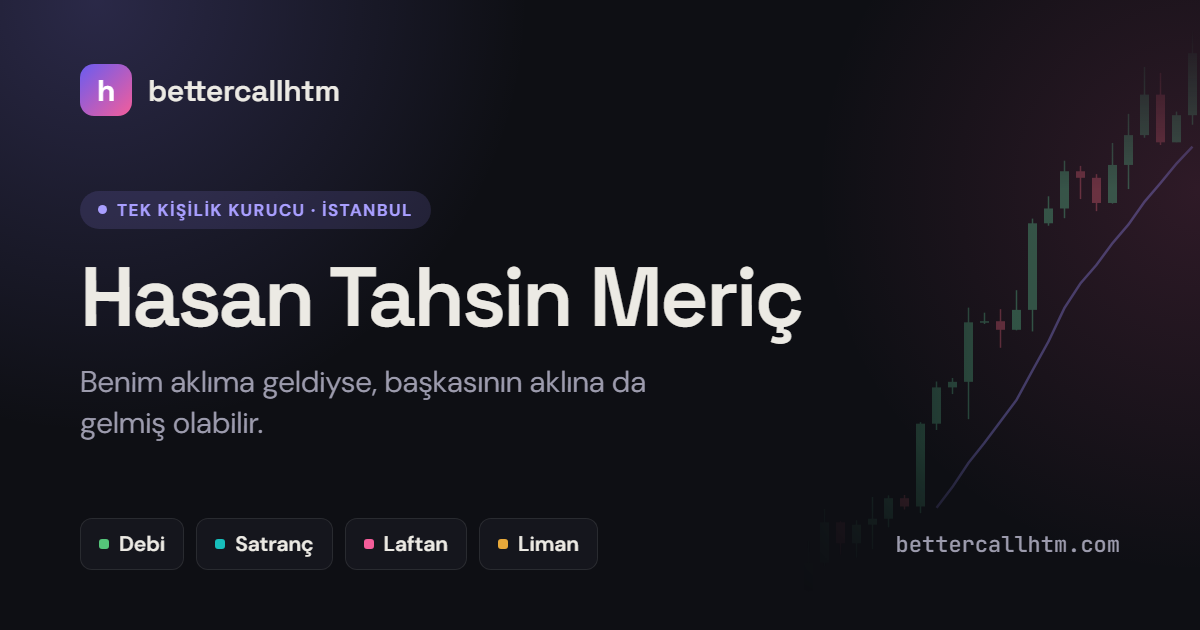
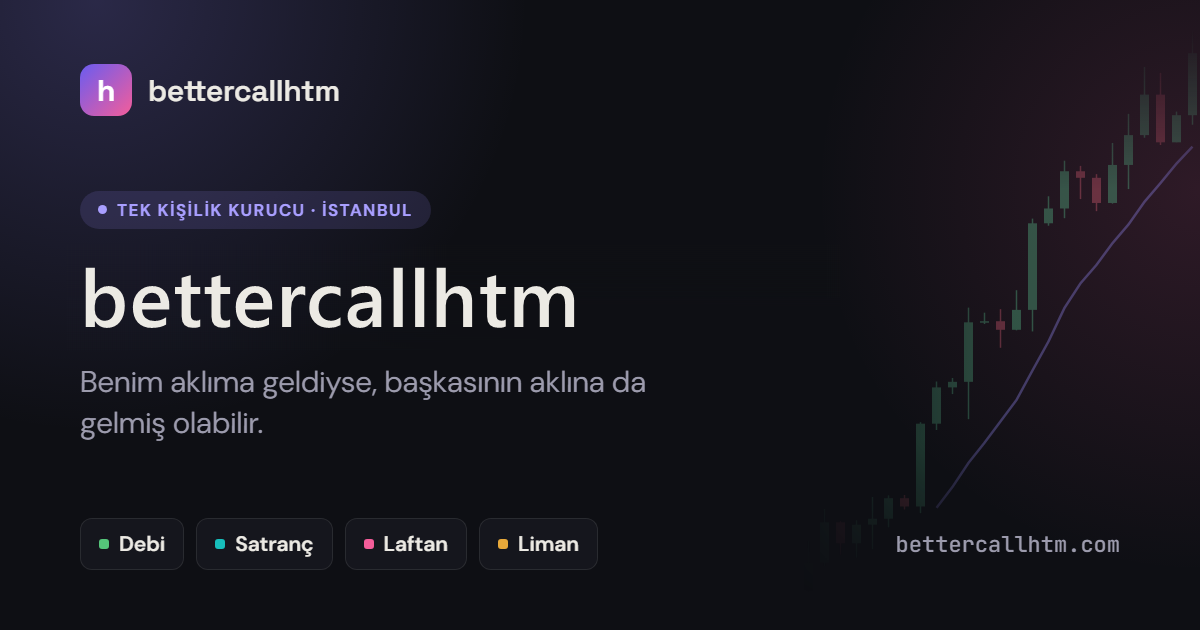
İsim siteden kaldırıldı; yalnızca bettercallhtm kimliği
Gerçek isim tüm sayfalardan, meta etiketlerinden, terminalden ve paylaşım
görselinden çıkarıldı. İsim içeren Instagram ve LinkedIn bağlantıları kaldırıldı.

Changed region(s): [[0.0617, 0.4222, 0.6783, 0.5429]]

diff --git a/hakkimda/index.html b/hakkimda/index.html
@@ -4,7 +4,7 @@
 <meta charset="utf-8">
 <meta name="viewport" content="width=device-width, initial-scale=1">
 <title>Hakkımda — bettercallhtm</title>
-<meta name="description" content="Hasan Tahsin Meriç: İTÜ Elektronik ve Haberleşme son sınıf, tek kişilik kurucu. Finans, sayılar teorisi ve satranç.">
+<meta name="description" content="İTÜ Elektronik ve Haberleşme son sınıf, tek kişilik kurucu. Finans, sayılar teorisi ve satranç.">
 <link rel="canonical" href="https://bettercallhtm.com/hakkimda">
 <meta property="og:type" content="website">
 <meta property="og:site_name" content="bettercallhtm">
@@ -15,7 +15,7 @@
 <meta property="og:image" content="https://bettercallhtm.com/assets/img/og.png">
 <meta property="og:image:width" content="1200">
 <meta property="og:image:height" content="630">
-<meta property="og:image:alt" content="bettercallhtm — Hasan Tahsin Meriç. Debi, Satranç, Laftan, Liman.">
+<meta property="og:image:alt" content="bettercallhtm. Debi, Satranç, Laftan, Liman.">
 <meta name="twitter:card" content="summary_large_image">
 <meta name="twitter:site" content="@bett3rcallhtm">
 <meta name="twitter:image" content="https://bettercallhtm.com/assets/img/og.png">
@@ -86,8 +86,8 @@
     <div class="about-grid">
       <div class="about-copy">
         <p class="about-text rv"
-           data-tr="Ben Hasan Tahsin Meriç. İTÜ Elektronik ve Haberleşme Mühendisliği'nde son sınıf öğrencisiyim, ama işin okul kısmı hayatımın ufak bir parçası. Geri kalan zamanımda tek kişilik kurucu olarak uygulamalar geliştiriyorum. Sipariş akışını kısan bir SaaS'tan satranç analiz aracına, AI sohbet botu projelerinden İslami uygulamalara, kısacası gündelik hayatı kolaylaştıran her yerdeyim."
-           data-en="I'm Hasan Tahsin Meriç. I'm a senior in Electronics & Communication Engineering at Istanbul Technical University, but the school part is a small piece of my life. The rest of the time I build apps as a solo founder. From a SaaS that shortens order flow to a chess analysis tool, from AI chatbot projects to Islamic apps — in short, I'm everywhere everyday life can be made easier.">Ben Hasan Tahsin Meriç. İTÜ Elektronik ve Haberleşme Mühendisliği'nde son sınıf öğrencisiyim, ama işin okul kısmı hayatımın ufak bir parçası. Geri kalan zamanımda tek kişilik kurucu olarak uygulamalar geliştiriyorum. Sipariş akışını kısan bir SaaS'tan satranç analiz aracına, AI sohbet botu projelerinden İslami uygulamalara, kısacası gündelik hayatı kolaylaştıran her yerdeyim.</p>
+           data-tr="İTÜ Elektronik ve Haberleşme Mühendisliği'nde son sınıf öğrencisiyim, ama işin okul kısmı hayatımın ufak bir parçası. Geri kalan zamanımda tek kişilik kurucu olarak uygulamalar geliştiriyorum. Sipariş akışını kısan bir SaaS'tan satranç analiz aracına, AI sohbet botu projelerinden İslami uygulamalara, kısacası gündelik hayatı kolaylaştıran her yerdeyim."
+           data-en="I'm a senior in Electronics & Communication Engineering at Istanbul Technical University, but the school part is a small piece of my life. The rest of the time I build apps as a solo founder. From a SaaS that shortens order flow to a chess analysis tool, from AI chatbot projects to Islamic apps — in short, I'm everywhere everyday life can be made easier.">İTÜ Elektronik ve Haberleşme Mühendisliği'nde son sınıf öğrencisiyim, ama işin okul kısmı hayatımın ufak bir parçası. Geri kalan zamanımda tek kişilik kurucu olarak uygulamalar geliştiriyorum. Sipariş akışını kısan bir SaaS'tan satranç analiz aracına, AI sohbet botu projelerinden İslami uygulamalara, kısacası gündelik hayatı kolaylaştıran her yerdeyim.</p>
         <p class="about-text rv"
            data-tr="Klişe ama beni ben yapan şey merak. Sayılar teorisi, finans, blockchain, satranç, bir de suç-polisiye dramaları. Hepsini birbirine bağlayan şey aynı: bir sistemin nasıl çalıştığını anlama isteği. Uzun vadede tutkum finans tarafında derinleşmek. Sayıların ve riskin kesiştiği yerde."
            data-en="Cliché, but what defines me is curiosity. Number theory, finance, blockchain, chess, and crime-detective dramas. What ties them all together is the same thing: the urge to understand how a system works. My long-term passion is to go deeper on the finance side. Where numbers and risk intersect.">Klişe ama beni ben yapan şey merak. Sayılar teorisi, finans, blockchain, satranç, bir de suç-polisiye dramaları. Hepsini birbirine bağlayan şey aynı: bir sistemin nasıl çalıştığını anlama isteği. Uzun vadede tutkum finans tarafında derinleşmek. Sayıların ve riskin kesiştiği yerde.</p>
@@ -115,14 +115,8 @@
             bettercallhtm@gmail.com <span aria-hidden="true">→</span>
           </a>
           <div class="socials">
-            <a class="social" href="https://www.instagram.com/hasahsinmeric/" target="_blank" rel="noopener" aria-label="Instagram">
-              <svg viewBox="0 0 24 24" aria-hidden="true"><path d="M12 2.163c3.204 0 3.584.012 4.85.07 3.252.148 4.771 1.691 4.919 4.919.058 1.265.069 1.645.069 4.849 0 3.205-.012 3.584-.069 4.849-.149 3.225-1.664 4.771-4.919 4.919-1.266.058-1.644.07-4.85.07-3.204 0-3.584-.012-4.849-.07-3.26-.149-4.771-1.699-4.919-4.92-.058-1.265-.07-1.644-.07-4.849 0-3.204.013-3.583.07-4.849.149-3.227 1.664-4.771 4.919-4.919 1.266-.057 1.645-.069 4.849-.069zM12 0C8.741 0 8.333.014 7.053.072 2.695.272.273 2.69.073 7.052.014 8.333 0 8.741 0 12c0 3.259.014 3.668.072 4.948.2 4.358 2.618 6.78 6.98 6.98C8.333 23.986 8.741 24 12 24c3.259 0 3.668-.014 4.948-.072 4.354-.2 6.782-2.618 6.979-6.98.059-1.28.073-1.689.073-4.948 0-3.259-.014-3.667-.072-4.947-.196-4.354-2.617-6.78-6.979-6.98C15.668.014 15.259 0 12 0zm0 5.838a6.162 6.162 0 100 12.324 6.162 6.162 0 000-12.324zM12 16a4 4 0 110-8 4 4 0 010 8zm6.406-11.845a1.44 1.44 0 100 2.881 1.44 1.44 0 000-2.881z"/></svg>
-            </a>
             <a class="social" href="https://x.com/bett3rcallhtm" target="_blank" rel="noopener" aria-label="X">
               <svg viewBox="0 0 24 24" aria-hidden="true"><path d="M18.244 2.25h3.308l-7.227 8.26 8.502 11.24H16.17l-5.214-6.817L4.99 21.75H1.68l7.73-8.835L1.254 2.25H8.08l4.713 6.231zm-1.161 17.52h1.833L7.084 4.126H5.117z"/></svg>
-            </a>
-            <a class="social" href="https://www.linkedin.com/in/hasan-tahsin-meri%C3%A7-51554b277/" target="_blank" rel="noopener" aria-label="LinkedIn">
-              <svg viewBox="0 0 24 24" aria-hidden="true"><path d="M20.447 20.452h-3.554v-5.569c0-1.328-.027-3.037-1.852-3.037-1.853 0-2.136 1.445-2.136 2.939v5.667H9.351V9h3.414v1.561h.046c.477-.9 1.637-1.85 3.37-1.85 3.601 0 4.267 2.37 4.267 5.455v6.286zM5.337 7.433a2.062 2.062 0 01-2.063-2.065 2.064 2.064 0 112.063 2.065zm1.782 13.019H3.555V9h3.564v11.452zM22.225 0H1.771C.792 0 0 .774 0 1.729v20.542C0 23.227.792 24 1.771 24h20.451C23.2 24 24 23.227 24 22.271V1.729C24 .774 23.2 0 22.225 0z"/></svg>
             </a>
             <a class="social" href="https://github.com/bettercallhtm" target="_blank" rel="noopener" aria-label="GitHub">
               <svg viewBox="0 0 24 24" aria-hidden="true"><path d="M12 .297c-6.63 0-12 5.373-12 12 0 5.303 3.438 9.8 8.205 11.385.6.113.82-.258.82-.577 0-.285-.01-1.04-.015-2.04-3.338.724-4.042-1.61-4.042-1.61C4.422 18.07 3.633 17.7 3.633 17.7c-1.087-.744.084-.729.084-.729 1.205.084 1.838 1.236 1.838 1.236 1.07 1.835 2.809 1.305 3.495.998.108-.776.417-1.305.76-1.605-2.665-.3-5.466-1.332-5.466-5.93 0-1.31.465-2.38 1.235-3.22-.135-.303-.54-1.523.105-3.176 0 0 1.005-.322 3.3 1.23.96-.267 1.98-.399 3-.405 1.02.006 2.04.138 3 .405 2.28-1.552 3.285-1.23 3.285-1.23.645 1.653.24 2.873.12 3.176.765.84 1.23 1.91 1.23 3.22 0 4.61-2.805 5.625-5.475 5.92.42.36.81 1.096.81 2.22 0 1.606-.015 2.896-.015 3.286 0 .315.21.69.825.57C20.565 22.092 24 17.592 24 12.297c0-6.627-5.373-12-12-12"/></svg>
@@ -184,7 +178,7 @@
     </ul>
   </div>
   <div class="foot-meta">
-    <span>© 2026 Hasan Tahsin Meriç</span>
+    <span>© 2026 bettercallhtm</span>
   </div>
 </footer>
 

diff --git a/assets/app.js b/assets/app.js
@@ -177,7 +177,6 @@
     const CODE = [
       L(['c', '// htm.config.ts — v2026.9']),
       L(['k', 'export const '], ['v', 'htm'], o(' = {')),
-      prop('name', s('Hasan Tahsin Meriç')),
       prop('handle', s('@bettercallhtm')),
       prop('role', s('solo founder')),
       prop('base', s('İstanbul, TR')),
@@ -883,14 +882,12 @@
     const SOC = {
       github: 'https://github.com/bettercallhtm',
       x: 'https://x.com/bett3rcallhtm',
-      instagram: 'https://www.instagram.com/hasahsinmeric/',
-      linkedin: 'https://www.linkedin.com/in/hasan-tahsin-meri%C3%A7-51554b277/',
       youtube: 'https://www.youtube.com/@bettercallhtm',
     };
     const OPEN = {
       debi: PROJ[0].u, nightjar: PROJ[1].u, chess: PROJ[2].u, satranc: PROJ[2].u, laftan: PROJ[3].u, liman: PROJ[4].u,
-      github: SOC.github, gh: SOC.github, x: SOC.x, twitter: SOC.x, instagram: SOC.instagram, ig: SOC.instagram,
-      linkedin: SOC.linkedin, youtube: SOC.youtube, yt: SOC.youtube,
+      github: SOC.github, gh: SOC.github, x: SOC.x, twitter: SOC.x,
+      youtube: SOC.youtube, yt: SOC.youtube,
     };
     const PAGES = { '~': '/', portfoy: '/portfoy', lab: '/lab', terminal: '/terminal', hakkimda: '/hakkimda' };
     const PAGE_ALIAS = { home: '~', '..': '~', portfolio: 'portfoy', about: 'hakkimda', 'hakkımda': 'hakkimda', 'portföy': 'portfoy' };
@@ -923,7 +920,7 @@
         print(L('ipucu: Tab tamamlar, ↑↓ geçmişte gezer.', 'tip: Tab completes, ↑↓ walks history.'), 'dim');
       },
       whoami() {
-        print(`<span class="w">Hasan Tahsin Meriç</span> <span class="dim">(@bettercallhtm)</span>\n` + esc(L(
+        print(`<span class="w">bettercallhtm</span>\n` + esc(L(
           "İstanbul'dan tek kişilik kurucu. İTÜ Elektronik & Haberleşme, son sınıf.\nProblemi görürüm, kodlarım, yayınlarım. Finans, sayılar teorisi ve satranç meraklısı.",
           'Solo founder from Istanbul. Senior in Electronics & Communication Eng. at ITU.\nI see a problem, I build it, I ship it. Into finance, number theory and chess.')));
       },
@@ -992,8 +989,8 @@
         const f = (args[0] || '').replace(/^\.\//, '');
         if (!f) return print(L('kullanım: cat <dosya>', 'usage: cat <file>'), 'dim');
         if (f === 'about.txt') return print(esc(L(
-          'Ben Hasan Tahsin Meriç. İTÜ Elektronik ve Haberleşme Mühendisliği\'nde son sınıf öğrencisiyim. Geri kalan zamanımda tek kişilik kurucu olarak uygulamalar geliştiriyorum. Beni ben yapan şey merak: sayılar teorisi, finans, blockchain, satranç.',
-          'I\'m Hasan Tahsin Meriç, a senior in Electronics & Communication Engineering at ITU. The rest of the time I build apps as a solo founder. What defines me is curiosity: number theory, finance, blockchain, chess.')));
+          'İTÜ Elektronik ve Haberleşme Mühendisliği\'nde son sınıf öğrencisiyim. Geri kalan zamanımda tek kişilik kurucu olarak uygulamalar geliştiriyorum. Beni ben yapan şey merak: sayılar teorisi, finans, blockchain, satranç.',
+          'I\'m a senior in Electronics & Communication Engineering at ITU. The rest of the time I build apps as a solo founder. What defines me is curiosity: number theory, finance, blockchain, chess.')));
         if (f === 'socials.json') return print(esc(JSON.stringify(SOC, null, 2)));
         if (f === '.secrets') return print(L('nice try. 🔒', 'nice try. 🔒'), 'y');
         if (PAGES[f.replace(/\/$/, '')]) return print(`cat: ${esc(f)}: ${L(`bu bir dizin — cd ${esc(f)} yaz`, `is a directory — try cd ${esc(f)}`)}`, 'err');

diff --git a/index.html b/index.html
@@ -3,19 +3,19 @@
 <head>
 <meta charset="utf-8">
 <meta name="viewport" content="width=device-width, initial-scale=1">
-<title>Hasan Tahsin Meriç — bettercallhtm</title>
-<meta name="description" content="Hasan Tahsin Meriç (bettercallhtm) — İstanbul'dan tek kişilik kurucu. Debi, Nightjar, Laftan, Liman ve Pratik Satranç Analizi. Trading, kod ve satranç.">
+<title>bettercallhtm</title>
+<meta name="description" content="bettercallhtm — İstanbul'dan tek kişilik kurucu. Debi, Nightjar, Laftan, Liman ve Pratik Satranç Analizi. Trading, kod ve satranç.">
 <link rel="canonical" href="https://bettercallhtm.com/">
 <meta property="og:type" content="website">
 <meta property="og:site_name" content="bettercallhtm">
 <meta property="og:locale" content="tr_TR">
 <meta property="og:url" content="https://bettercallhtm.com/">
-<meta property="og:title" content="bettercallhtm — Hasan Tahsin Meriç">
+<meta property="og:title" content="bettercallhtm">
 <meta property="og:description" content="Solo founder. Ship > talk. Trading, kod ve satranç.">
 <meta property="og:image" content="https://bettercallhtm.com/assets/img/og.png">
 <meta property="og:image:width" content="1200">
 <meta property="og:image:height" content="630">
-<meta property="og:image:alt" content="bettercallhtm — Hasan Tahsin Meriç. Debi, Satranç, Laftan, Liman.">
+<meta property="og:image:alt" content="bettercallhtm. Debi, Satranç, Laftan, Liman.">
 <meta name="twitter:card" content="summary_large_image">
 <meta name="twitter:site" content="@bett3rcallhtm">
 <meta name="twitter:image" content="https://bettercallhtm.com/assets/img/og.png">
@@ -82,7 +82,7 @@
             data-tr="Benim aklıma geldiyse, başkasının aklına da gelmiş olabilir."
             data-en="If it crossed my mind, it may have crossed someone else's too.">Benim aklıma geldiyse, başkasının aklına da gelmiş olabilir.</h1>
         <p class="hero-id">
-          <span class="hero-name">Hasan Tahsin Meriç</span>
+          <span class="hero-name">bettercallhtm</span>
           <span class="hero-role"><span class="role-ps" aria-hidden="true">~/htm $</span> <span data-tr="tek kişilik kurucu · İTÜ EHB son sınıf" data-en="solo founder · ITU ECE senior">tek kişilik kurucu · İTÜ EHB son sınıf</span></span>
         </p>
         <p class="hero-bio"
@@ -226,7 +226,7 @@
     </ul>
   </div>
   <div class="foot-meta">
-    <span>© 2026 Hasan Tahsin Meriç</span>
+    <span>© 2026 bettercallhtm</span>
   </div>
 </footer>
 

diff --git a/portfoy/index.html b/portfoy/index.html
@@ -4,7 +4,7 @@
 <meta charset="utf-8">
 <meta name="viewport" content="width=device-width, initial-scale=1">
 <title>Portföy — bettercallhtm</title>
-<meta name="description" content="Hasan Tahsin Meriç'in yayındaki ürünleri: Debi, Nightjar, Pratik Satranç Analizi, Laftan, Liman.">
+<meta name="description" content="bettercallhtm'in yayındaki ürünleri: Debi, Nightjar, Pratik Satranç Analizi, Laftan, Liman.">
 <link rel="canonical" href="https://bettercallhtm.com/portfoy">
 <meta property="og:type" content="website">
 <meta property="og:site_name" content="bettercallhtm">
@@ -15,7 +15,7 @@
 <meta property="og:image" content="https://bettercallhtm.com/assets/img/og.png">
 <meta property="og:image:width" content="1200">
 <meta property="og:image:height" content="630">
-<meta property="og:image:alt" content="bettercallhtm — Hasan Tahsin Meriç. Debi, Satranç, Laftan, Liman.">
+<meta property="og:image:alt" content="bettercallhtm. Debi, Satranç, Laftan, Liman.">
 <meta name="twitter:card" content="summary_large_image">
 <meta name="twitter:site" content="@bett3rcallhtm">
 <meta name="twitter:image" content="https://bettercallhtm.com/assets/img/og.png">
@@ -230,7 +230,7 @@
     </ul>
   </div>
   <div class="foot-meta">
-    <span>© 2026 Hasan Tahsin Meriç</span>
+    <span>© 2026 bettercallhtm</span>
   </div>
 </footer>
 

diff --git a/lab/index.html b/lab/index.html
@@ -15,7 +15,7 @@
 <meta property="og:image" content="https://bettercallhtm.com/assets/img/og.png">
 <meta property="og:image:width" content="1200">
 <meta property="og:image:height" content="630">
-<meta property="og:image:alt" content="bettercallhtm — Hasan Tahsin Meriç. Debi, Satranç, Laftan, Liman.">
+<meta property="og:image:alt" content="bettercallhtm. Debi, Satranç, Laftan, Liman.">
 <meta name="twitter:card" content="summary_large_image">
 <meta name="twitter:site" content="@bett3rcallhtm">
 <meta name="twitter:image" content="https://bettercallhtm.com/assets/img/og.png">
@@ -210,7 +210,7 @@
     </ul>
   </div>
   <div class="foot-meta">
-    <span>© 2026 Hasan Tahsin Meriç</span>
+    <span>© 2026 bettercallhtm</span>
   </div>
 </footer>
 

diff --git a/terminal/index.html b/terminal/index.html
@@ -15,7 +15,7 @@
 <meta property="og:image" content="https://bettercallhtm.com/assets/img/og.png">
 <meta property="og:image:width" content="1200">
 <meta property="og:image:height" content="630">
-<meta property="og:image:alt" content="bettercallhtm — Hasan Tahsin Meriç. Debi, Satranç, Laftan, Liman.">
+<meta property="og:image:alt" content="bettercallhtm. Debi, Satranç, Laftan, Liman.">
 <meta name="twitter:card" content="summary_large_image">
 <meta name="twitter:site" content="@bett3rcallhtm">
 <meta name="twitter:image" content="https://bettercallhtm.com/assets/img/og.png">
@@ -128,7 +128,7 @@
     </ul>
   </div>
   <div class="foot-meta">
-    <span>© 2026 Hasan Tahsin Meriç</span>
+    <span>© 2026 bettercallhtm</span>
   </div>
 </footer>
 
